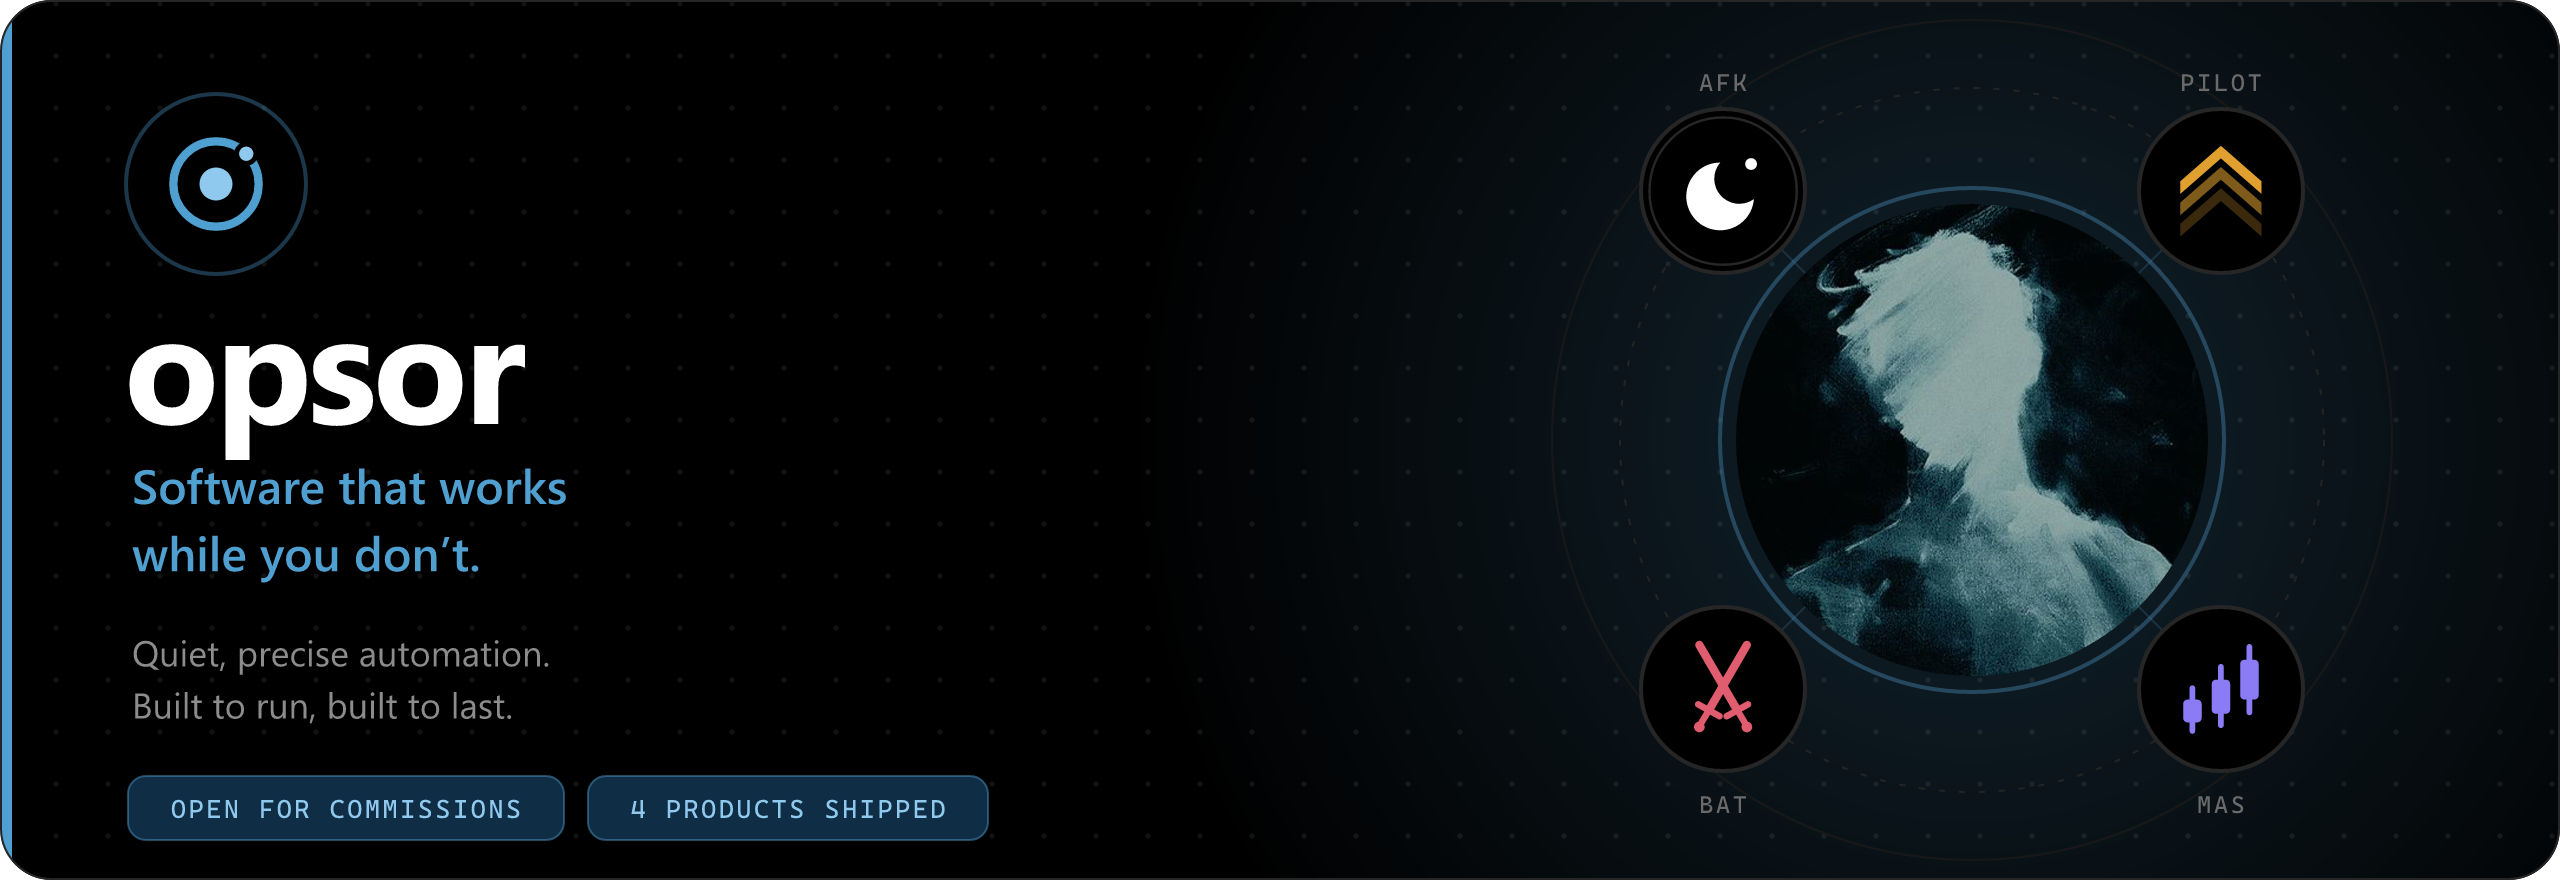
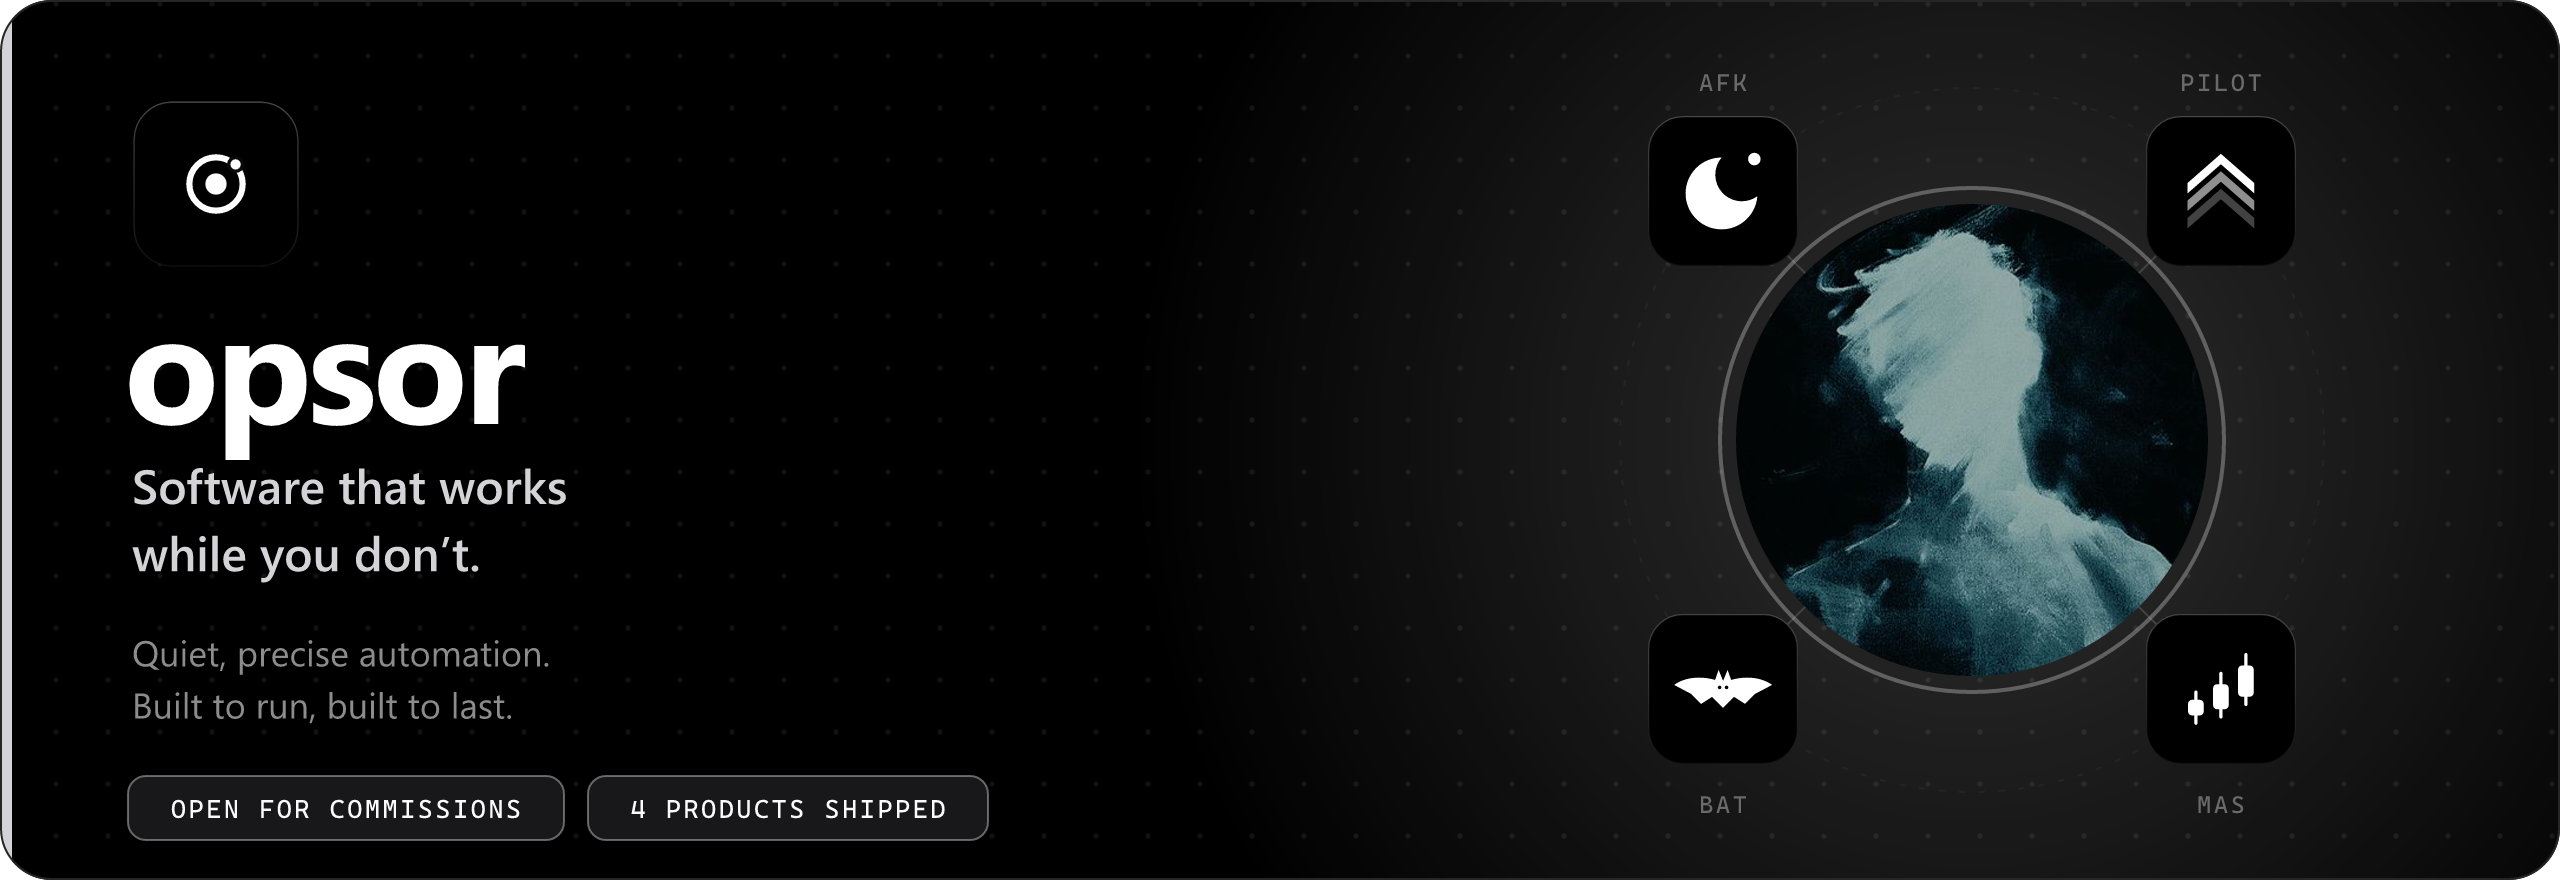
Neutral palette: monochrome marks, new hero, README, generators

diff --git a/README.md b/README.md
@@ -4,8 +4,8 @@
 
 <br /><br />
 
-<a href="#contact"><img src="https://img.shields.io/badge/START%20A%20PROJECT-DISCORD%20%C2%B7%20opsor-0f2d45?style=for-the-badge&logo=discord&logoColor=8fc9ee" /></a>
-<img src="https://img.shields.io/badge/STATUS-OPEN%20FOR%20COMMISSIONS-0f2d45?style=for-the-badge&labelColor=0b1f2a" />
+<a href="#contact"><img src="https://img.shields.io/badge/START%20A%20PROJECT-DISCORD%20%C2%B7%20opsor-18181b?style=for-the-badge&logo=discord&logoColor=fafafa" /></a>
+<img src="https://img.shields.io/badge/STATUS-OPEN%20FOR%20COMMISSIONS-18181b?style=for-the-badge&labelColor=09090b" />
 
 <br /><br />
 
@@ -26,29 +26,29 @@
 
 <br />
 
-<h2 id="why"><img src="https://api.iconify.design/ph/diamond-bold.svg?color=%234f9fd0" width="26" align="absmiddle" />&nbsp; Why opsor</h2>
+<h2 id="why"><img src="https://api.iconify.design/ph/diamond-bold.svg?color=%23a1a1aa" width="26" align="absmiddle" />&nbsp; Why opsor</h2>
 
 Most custom software arrives half-finished: no installer, no error handling, no docs. I build the whole thing, so what you receive is a product you can run, hand to a teammate and trust.
 
 <table width="100%">
 <tr>
 <td width="25%" valign="top">
-<img src="https://api.iconify.design/ph/infinity-bold.svg?color=%234f9fd0" width="28" /><br />
+<img src="https://api.iconify.design/ph/infinity-bold.svg?color=%23a1a1aa" width="28" /><br />
 <b>Self-running</b><br />
 <sub>Reconnects, recovers and heals on its own. Nothing to babysit.</sub>
 </td>
 <td width="25%" valign="top">
-<img src="https://api.iconify.design/ph/shield-check-bold.svg?color=%234f9fd0" width="28" /><br />
+<img src="https://api.iconify.design/ph/shield-check-bold.svg?color=%23a1a1aa" width="28" /><br />
 <b>Secure</b><br />
 <sub>Encrypted credentials, official sign-in flows and audit trails.</sub>
 </td>
 <td width="25%" valign="top">
-<img src="https://api.iconify.design/ph/gauge-bold.svg?color=%234f9fd0" width="28" /><br />
+<img src="https://api.iconify.design/ph/gauge-bold.svg?color=%23a1a1aa" width="28" /><br />
 <b>Tested</b><br />
 <sub>Unit, end-to-end and soak tests, with CI on every change.</sub>
 </td>
 <td width="25%" valign="top">
-<img src="https://api.iconify.design/ph/package-bold.svg?color=%234f9fd0" width="28" /><br />
+<img src="https://api.iconify.design/ph/package-bold.svg?color=%23a1a1aa" width="28" /><br />
 <b>Ship-ready</b><br />
 <sub>Installer, auto-update, documentation and a clean interface.</sub>
 </td>
@@ -57,29 +57,29 @@ Most custom software arrives half-finished: no installer, no error handling, no 
 
 <br />
 
-<h2 id="services"><img src="https://api.iconify.design/ph/briefcase-bold.svg?color=%234f9fd0" width="26" align="absmiddle" />&nbsp; Services</h2>
+<h2 id="services"><img src="https://api.iconify.design/ph/briefcase-bold.svg?color=%23a1a1aa" width="26" align="absmiddle" />&nbsp; Services</h2>
 
 <table width="100%">
 <tr>
 <td width="50%" valign="top">
-<img src="https://api.iconify.design/ph/robot-bold.svg?color=%234f9fd0" width="28" /><br />
+<img src="https://api.iconify.design/ph/robot-bold.svg?color=%23a1a1aa" width="28" /><br />
 <b>Automation and bots</b><br />
 <sub>Real-time clients and multi-account managers with safety logic built in.</sub>
 </td>
 <td width="50%" valign="top">
-<img src="https://api.iconify.design/ph/app-window-bold.svg?color=%234f9fd0" width="28" /><br />
+<img src="https://api.iconify.design/ph/app-window-bold.svg?color=%23a1a1aa" width="28" /><br />
 <b>Desktop applications</b><br />
 <sub>Windows app with installer, auto-update and a clean UI.</sub>
 </td>
 </tr>
 <tr>
 <td width="50%" valign="top">
-<img src="https://api.iconify.design/ph/graph-bold.svg?color=%234f9fd0" width="28" /><br />
+<img src="https://api.iconify.design/ph/graph-bold.svg?color=%23a1a1aa" width="28" /><br />
 <b>Orchestration and backends</b><br />
 <sub>Task queues, worker swarms and APIs that scale.</sub>
 </td>
 <td width="50%" valign="top">
-<img src="https://api.iconify.design/ph/bell-ringing-bold.svg?color=%234f9fd0" width="28" /><br />
+<img src="https://api.iconify.design/ph/bell-ringing-bold.svg?color=%23a1a1aa" width="28" /><br />
 <b>Dashboards and alerts</b><br />
 <sub>Live status, desktop and phone alerts, Discord and Slack webhooks.</sub>
 </td>
@@ -90,7 +90,7 @@ Most custom software arrives half-finished: no installer, no error handling, no 
 
 <br />
 
-<h2 id="products"><img src="https://api.iconify.design/ph/cube-bold.svg?color=%234f9fd0" width="26" align="absmiddle" />&nbsp; Products</h2>
+<h2 id="products"><img src="https://api.iconify.design/ph/cube-bold.svg?color=%23a1a1aa" width="26" align="absmiddle" />&nbsp; Products</h2>
 
 | | Product | Type | Highlights |
 | :-: | :-- | :-- | :-- |
@@ -98,21 +98,21 @@ Most custom software arrives half-finished: no installer, no error handling, no 
 | <img src="assets/logo-pilot.svg" width="44" /> | **Pilot** | Swarm controller | One brain and a lease-based task queue that builds a schematic across many bots |
 | <img src="assets/logo-mas.svg" width="44" /> | **MAS** | Team operations terminal | Millisecond scheduling, encrypted credentials, tamper-evident audit ledger, 184 tests |
 | <img src="assets/logo-bat.svg" width="44" /> | **Bat** | Fleet command console | Combat and PvP, tactical codes, a commander bot, live 3D map and an offline simulator |
-| <img src="https://api.iconify.design/ph/sparkle-bold.svg?color=%234f9fd0" width="32" /> | **Coming soon** | New project | In development. Details to follow |
+| <img src="https://api.iconify.design/ph/sparkle-bold.svg?color=%23a1a1aa" width="32" /> | **Coming soon** | New project | In development. Details to follow |
 
 <sub>Source is private. Live demos and walkthroughs on request. Bots are for servers you own or have permission to use them on.</sub>
 
 <br />
 
-<h2 id="stack"><img src="https://api.iconify.design/ph/stack-bold.svg?color=%234f9fd0" width="26" align="absmiddle" />&nbsp; Stack</h2>
+<h2 id="stack"><img src="https://api.iconify.design/ph/stack-bold.svg?color=%23a1a1aa" width="26" align="absmiddle" />&nbsp; Stack</h2>
 
 <p align="left">
-<img src="https://img.shields.io/badge/JavaScript-0f2d45?style=flat-square&logo=javascript&logoColor=8fc9ee" /> <img src="https://img.shields.io/badge/Node.js-0f2d45?style=flat-square&logo=nodedotjs&logoColor=8fc9ee" /> <img src="https://img.shields.io/badge/React-0f2d45?style=flat-square&logo=react&logoColor=8fc9ee" /> <img src="https://img.shields.io/badge/Electron-0f2d45?style=flat-square&logo=electron&logoColor=8fc9ee" /> <img src="https://img.shields.io/badge/Vite-0f2d45?style=flat-square&logo=vite&logoColor=8fc9ee" /> <img src="https://img.shields.io/badge/Tailwind-0f2d45?style=flat-square&logo=tailwindcss&logoColor=8fc9ee" /> <img src="https://img.shields.io/badge/Git-0f2d45?style=flat-square&logo=git&logoColor=8fc9ee" /> <img src="https://img.shields.io/badge/GitHub%20Actions-0f2d45?style=flat-square&logo=githubactions&logoColor=8fc9ee" />
+<img src="https://img.shields.io/badge/JavaScript-18181b?style=flat-square&logo=javascript&logoColor=fafafa" /> <img src="https://img.shields.io/badge/Node.js-18181b?style=flat-square&logo=nodedotjs&logoColor=fafafa" /> <img src="https://img.shields.io/badge/React-18181b?style=flat-square&logo=react&logoColor=fafafa" /> <img src="https://img.shields.io/badge/Electron-18181b?style=flat-square&logo=electron&logoColor=fafafa" /> <img src="https://img.shields.io/badge/Vite-18181b?style=flat-square&logo=vite&logoColor=fafafa" /> <img src="https://img.shields.io/badge/Tailwind-18181b?style=flat-square&logo=tailwindcss&logoColor=fafafa" /> <img src="https://img.shields.io/badge/Git-18181b?style=flat-square&logo=git&logoColor=fafafa" /> <img src="https://img.shields.io/badge/GitHub%20Actions-18181b?style=flat-square&logo=githubactions&logoColor=fafafa" />
 </p>
 
 <br />
 
-<h2 id="faq"><img src="https://api.iconify.design/ph/question-bold.svg?color=%234f9fd0" width="26" align="absmiddle" />&nbsp; FAQ</h2>
+<h2 id="faq"><img src="https://api.iconify.design/ph/question-bold.svg?color=%23a1a1aa" width="26" align="absmiddle" />&nbsp; FAQ</h2>
 
 <details>
 <summary><b>What do you take on?</b></summary>
@@ -134,11 +134,11 @@ Tools use official sign-in flows wherever one exists, and any stored credentials
 
 <br />
 
-<h2 id="contact"><img src="https://api.iconify.design/ph/chat-circle-bold.svg?color=%234f9fd0" width="26" align="absmiddle" />&nbsp; Contact</h2>
+<h2 id="contact"><img src="https://api.iconify.design/ph/chat-circle-bold.svg?color=%23a1a1aa" width="26" align="absmiddle" />&nbsp; Contact</h2>
 
 Describe what you need and I'll tell you what's feasible, how long it takes and what it costs.
 
-<a href="#contact"><img src="https://img.shields.io/badge/DISCORD-opsor-0f2d45?style=for-the-badge&logo=discord&logoColor=8fc9ee" /></a>
+<a href="#contact"><img src="https://img.shields.io/badge/DISCORD-opsor-18181b?style=for-the-badge&logo=discord&logoColor=fafafa" /></a>
 
 <br /><br />
 
